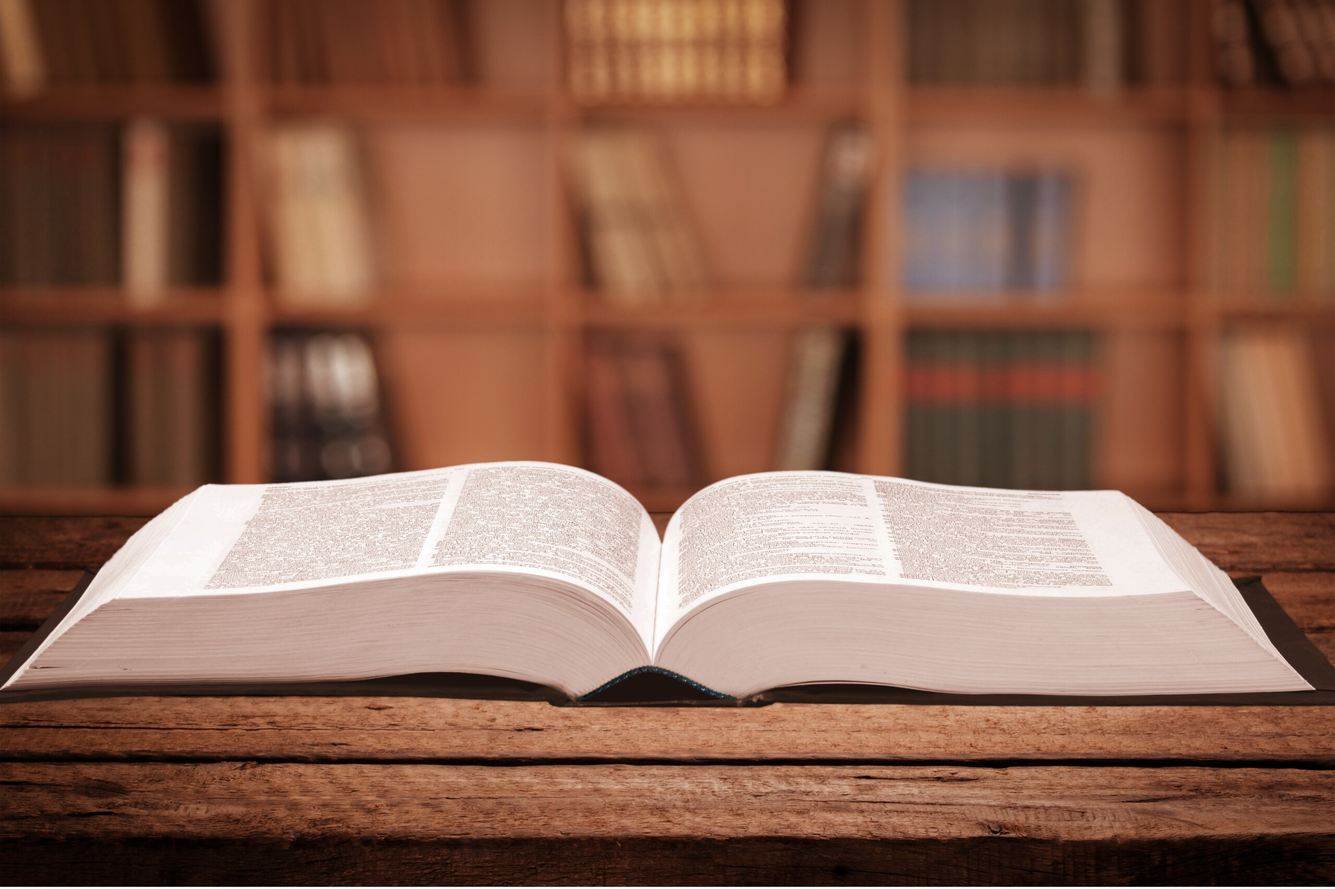
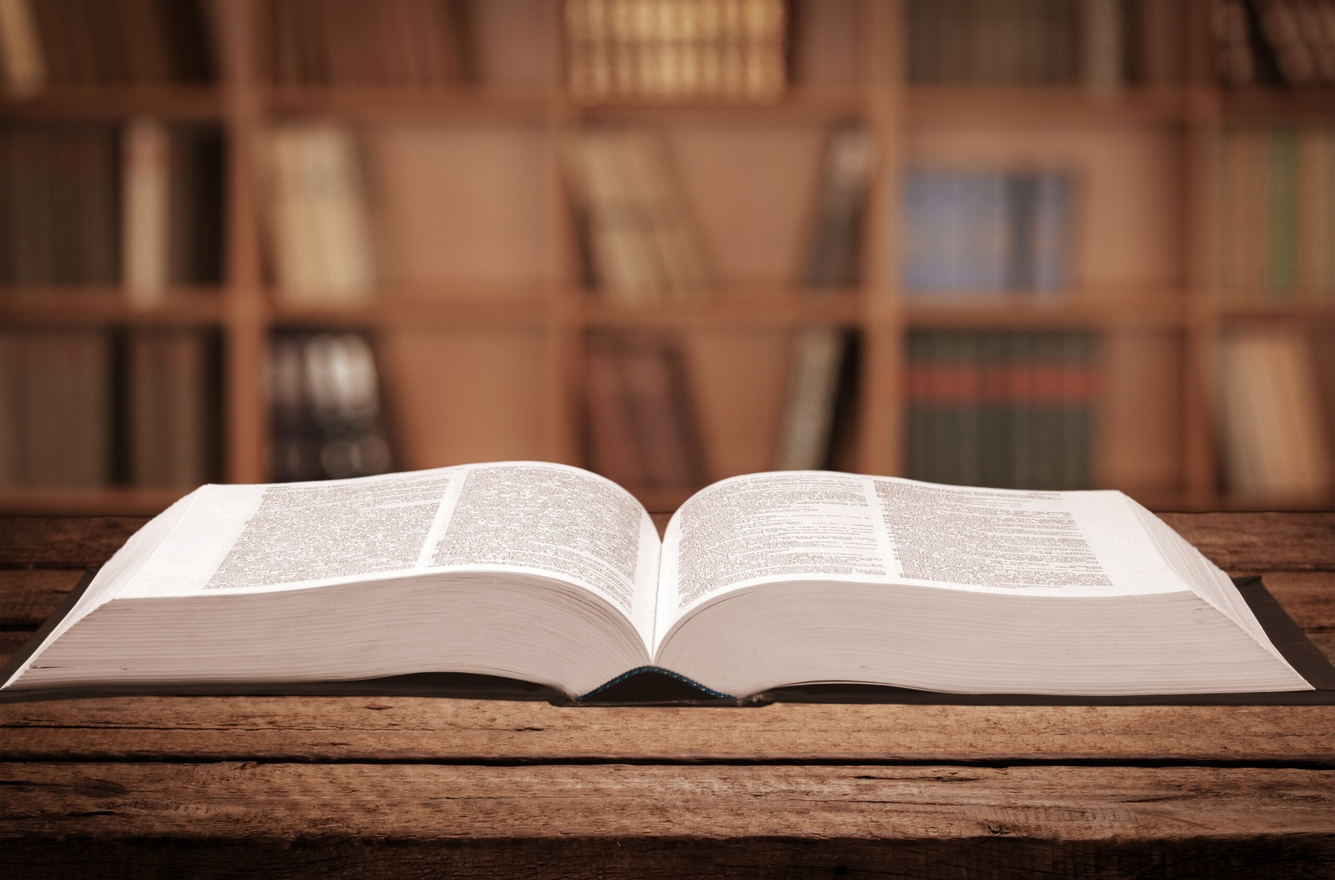
replaced the book image and added a border radius

Changed region(s): [[0.0, 0.4926, 1.0, 1.0]]

diff --git a/src/App.js b/src/App.js
@@ -18,24 +18,34 @@ export default function App() {
             </div>
           </div>
         </header>
-        <br />
+
         <main>
-          <Dictionary defaultKeyword="Dog" />
+          <Dictionary defaultKeyword="Smile" />
         </main>
-        <footer className="App-footer">
-          <p className="small">
-            This app was made by Celia Corona-Doran with React and open sourced
-            on
-            <a
-              href="https://github.com/Newadventure2022/Travel-Project"
-              target="_blank"
-              rel="noreferrer"
-              title="Link to Celia's GitHub"
-            >
-              <span> GitHub</span>.
-            </a>
-          </p>
-        </footer>
+        <section>
+          <footer className="App-footer">
+            <div className="GitHub">
+              This app was made by{" "}
+              <a
+                href="https://celia-corona-doran2023.netlify.app/"
+                target="_blank"
+                rel="noreferrer"
+                title="Link to Celia's Portfolio"
+              >
+                <span> Celia Corona-Doran </span>
+              </a>
+              and open sourced on
+              <a
+                href="https://github.com/Newadventure2022/Travel-Project"
+                target="_blank"
+                rel="noreferrer"
+                title="Link to Celia's GitHub"
+              >
+                <span> GitHub</span>.
+              </a>
+            </div>
+          </footer>
+        </section>
       </div>
     </div>
   );

diff --git a/src/App.css b/src/App.css
@@ -11,6 +11,9 @@ h1 {
   margin: 0 auto;
   max-width: 1000px;
 }
+img {
+  border-radius: 10px;
+}
 .container {
   max-width: 1000px;
 }
@@ -23,13 +26,23 @@ h1 {
 }
 
 .App-footer {
-  margin: 30px 0;
-  align-items: center;
-  justify-content: center;
+  background-color: rgba(255, 255, 255, 0.6);
+  border-radius: 5px;
+  color: #402a23;
   font-size: 20px;
-  color: black;
+  justify-content: center;
+  margin: 30px 0;
+  padding: 3px;
   text-align: center;
 }
-.App-footer a {
+
+.GitHub a {
+  color: #402a23;
+  transition: all 150ms ease-in-out;
+}
+.GitHub a:hover {
+  border-radius: 5px;
+  background: #a55233;
+  color: #f3bc77;
   text-decoration: none;
 }

diff --git a/src/Phonetics.css b/src/Phonetics.css
@@ -1,4 +1,4 @@
-a {
+.Phonetic a {
   border: 1px solid #f3bc77;
   border-radius: 20px;
   color: #f3bc77;
@@ -7,7 +7,7 @@ a {
   text-decoration: none;
   transition: all 150ms ease-in-out;
 }
-a:hover {
+.Phonetic a:hover {
   background: #f3bc77;
   color: #a55233;
 }
